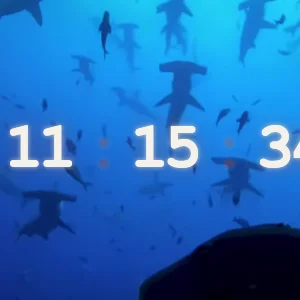
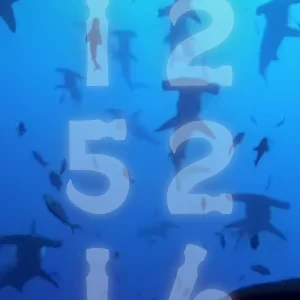
n

diff --git a/src/pages/2026/26-09/26-09-15/Clock.module.css b/src/pages/2026/26-09/26-09-15/Clock.module.css
@@ -23,25 +23,39 @@
   z-index: 0;
 }
 
+/* Display container: vertical column with three rows */
 .display {
   position: relative;
   z-index: 1;
   display: flex;
-  align-items: baseline;
+  flex-direction: column;
+  align-items: center;
+  justify-content: center;
+  gap: 0.15em; /* Spacing between rows */
   color: var(--display-color);
   font-family: 'Hammerhead', 'Courier New', Courier, monospace;
+  font-size: clamp(8rem, 20vw, 16rem); /* DIGIT SIZE */
   font-variant-numeric: tabular-nums;
+  letter-spacing: 0;
   line-height: 0.85;
+  opacity: 0.4;
   text-shadow:
     0 0 0.08em rgba(244, 235, 232, 0.995),
     0 0 0.3em rgba(255, 77, 0, 0.523);
   user-select: none;
 }
 
+/* Each row: two columns of digits (tens + ones) */
+.row {
+  display: flex;
+  gap: 0; /* No gap between digit columns */
+}
+
+/* Single digit box: fixed width prevents layout shift */
 .segment {
   display: inline-flex;
   align-items: center;
   justify-content: center;
-  width: 1ch;
+  width: 1ch; /* Width of one character */
   text-align: center;
 }

diff --git a/src/pages/2026/26-09/26-09-14/Clock.module.css b/src/pages/2026/26-09/26-09-14/Clock.module.css
@@ -1,6 +1,6 @@
 .container {
   --face-border: 8px;
-  --face-background: radial-gradient(circle at 30% 30%, #f8f8f8, #e0e0e0);
+  --face-background: radial-gradient(circle at 50% 50%, #f6e2c2, #939292);
   --ink: #1a1a1a;
   --muted-ink: #333;
   --seconds-color: #e63946;
@@ -64,7 +64,7 @@
   width: 10%;
   aspect-ratio: 1;
   border-radius: 50%;
-  background: #777;
+  background: #ffffff;
   transform: translate(-50%, -50%);
   z-index: 2;
 }
@@ -72,7 +72,7 @@
 .marker12 {
   top: 12%;
   left: 50%;
-  width: 16%;
+  /* width: 16%; */
   background: #e63946;
 }
 

diff --git a/src/pages/2026/26-09/26-09-15/Clock.tsx b/src/pages/2026/26-09/26-09-15/Clock.tsx
@@ -29,7 +29,8 @@ const Clock_26_09_15 = () => {
         muted
         playsInline
       />
-      {/* Three rows: hours on top, minutes middle, seconds bottom */}
+      {/* Two columns: left column has tens digit, right column has ones digit */}
+      {/* Three rows: hours (top), minutes (middle), seconds (bottom) */}
       <time className={styles.display} dateTime={time.toISOString()} aria-label="Current time">
         <div className={styles.row}>
           <span className={styles.segment}>{hours[0]}</span>
